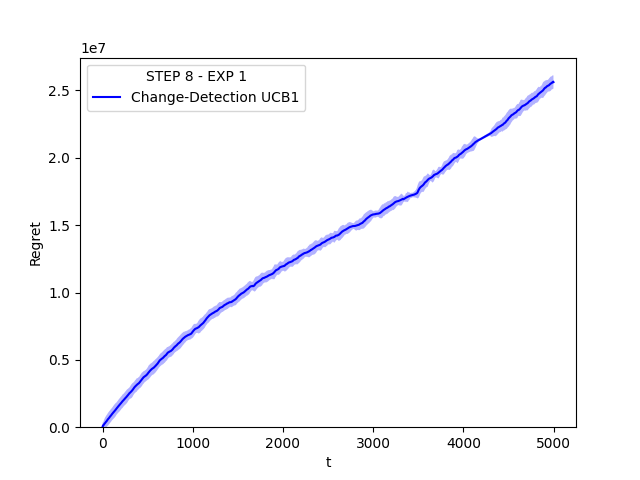
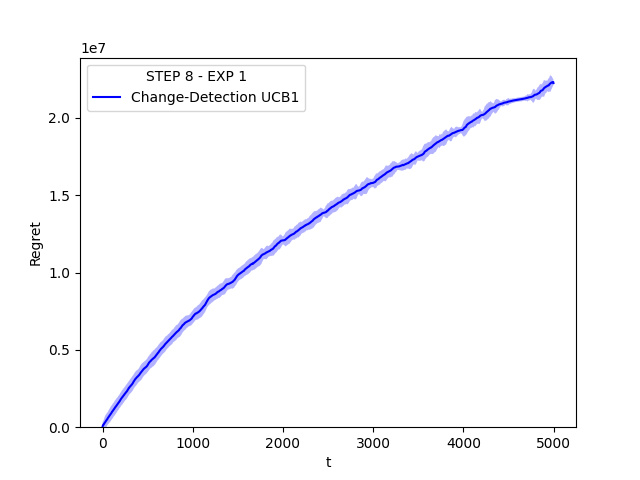
Changed conversion rates non stationary
Step 8 plots are better now.

diff --git a/Simulator.py b/Simulator.py
@@ -372,12 +372,12 @@ class Simulator:
 
         conversion_rates_item1_NS = np.array([self.data.conversion_rates_item1 + 0.2,
                                               self.data.conversion_rates_item1,
-                                              self.data.conversion_rates_item1 - 0.2])
+                                              self.data.conversion_rates_item1 - 0.1])
         conversion_rates_item1_NS = np.clip(conversion_rates_item1_NS, 0, 1)
 
         conversion_rates_item2_NS = np.array([self.data.conversion_rates_item2 + 0.2,
                                               self.data.conversion_rates_item2,
-                                              self.data.conversion_rates_item2 - 0.2])
+                                              self.data.conversion_rates_item2 - 0.1])
         conversion_rates_item2_NS = np.clip(conversion_rates_item2_NS, 0, 1)
 
         daily_customers = self.data.daily_customers
